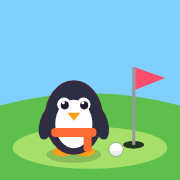
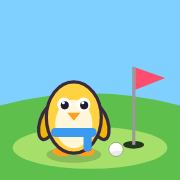
Putt Pals: yellow Ziggy, golf-ball belt for golfers
Claude-Session: https://claude.ai/code/session_01WiqYiDXAydwKSnPXCfe7MG

Changed region(s): [[0.1944, 0.4444, 0.6389, 0.8611]]

diff --git a/putt-pals/index.html b/putt-pals/index.html
@@ -434,6 +434,9 @@ function drawGolfer(c,x,y,s,look,pose,t,face){
  c.save(); c.translate(cx2,cy2); c.rotate(Math.atan2(cy2-hy,cx2-hx)); c.fillStyle='#c7ccd9'; c.strokeStyle=INK; c.lineWidth=1.6; rr(c,-3,-2,11,7,3); c.fill(); c.stroke(); c.restore();
  c.fillStyle=L.shirt; c.strokeStyle=INK; c.lineWidth=2; rr(c,-15,-53,30,30,11); c.fill(); c.stroke();
  c.fillStyle='#fff'; c.beginPath(); c.moveTo(-7,-53); c.lineTo(0,-46); c.lineTo(7,-53); c.closePath(); c.fill();
+ c.fillStyle='#6b4423'; c.strokeStyle=INK; c.lineWidth=1.6; rr(c,-15.5,-28,31,6,2.5); c.fill(); c.stroke();
+ for(const bx of [-11,-5.5,0,5.5,11]){ c.fillStyle='#fff'; c.strokeStyle='#8a8fa3'; c.lineWidth=1; circ(c,bx,-25,2.9); c.fill(); c.stroke();
+  c.fillStyle='#c7ccd9'; circ(c,bx-0.9,-25.6,0.55); c.fill(); circ(c,bx+0.9,-24.4,0.55); c.fill(); circ(c,bx+0.8,-25.9,0.5); c.fill(); }
  c.lineCap='round'; c.strokeStyle=L.skin; c.lineWidth=7;
  c.beginPath(); c.moveTo(11,-47); c.lineTo(hx,hy); c.stroke(); c.beginPath(); c.moveTo(-11,-47); c.lineTo(arm2x,arm2y); c.lineTo(pose==='cheer'?arm2x:hx-2,pose==='cheer'?arm2y:hy+1); c.stroke();
  c.fillStyle=L.skin; circ(c,hx,hy,4.5); c.fill(); if(pose==='cheer'){circ(c,arm2x,arm2y,4.5); c.fill();}
@@ -459,10 +462,10 @@ function drawPal(c,id,x,y,s,t,mood){
  const hp=mood==='cheer'; c.strokeStyle=INK; c.lineWidth=2; c.lineJoin='round'; c.lineCap='round';
  if(id===0){ // Pip penguin with orange scarf
   c.fillStyle='#ff9f1c'; ell(c,-7,-2,6,3); c.fill(); ell(c,7,-2,6,3); c.fill();
-  c.fillStyle='#2b2f45'; ell(c,-16,-20,5,11,0.3); c.fill(); ell(c,16,-20,5,11,-0.3); c.fill();
-  ell(c,0,-23,17,22); c.fill(); c.stroke(); c.fillStyle='#fff'; ell(c,0,-19,11.5,15); c.fill();
+  c.fillStyle='#f2b705'; ell(c,-16,-20,5,11,0.3); c.fill(); c.stroke(); ell(c,16,-20,5,11,-0.3); c.fill(); c.stroke();
+  c.fillStyle='#ffd23f'; ell(c,0,-23,17,22); c.fill(); c.stroke(); c.fillStyle='#fff7d9'; ell(c,0,-19,11.5,15); c.fill();
   eyes(c,-6,6,-31,4.3,hp,0.4); c.fillStyle='#ff9f1c'; c.beginPath(); c.moveTo(-4,-26); c.lineTo(4,-26); c.lineTo(0,-21); c.closePath(); c.fill();
-  c.fillStyle='#ff6b35'; rr(c,-14,-16.5,28,5.5,2.5); c.fill(); rr(c,6,-14,5,12,2); c.fill();
+  c.fillStyle='#3a9bf0'; rr(c,-14,-16.5,28,5.5,2.5); c.fill(); rr(c,6,-14,5,12,2); c.fill();
  } else if(id===1){ // Mo sheep
   c.fillStyle='#4a4455'; rr(c,-9,-9,5,9,2); c.fill(); rr(c,4,-9,5,9,2); c.fill();
   c.fillStyle='#fdfdfd'; c.strokeStyle='#cfc8d8'; for(let i=0;i<9;i++){const a=i/9*TAU; circ(c,Math.cos(a)*13,-24+Math.sin(a)*12,8.5); c.fill(); c.stroke();} circ(c,0,-24,13); c.fill();

diff --git a/putt-pals/sw.js b/putt-pals/sw.js
@@ -1,4 +1,4 @@
-const VERSION = '1';
+const VERSION = '2';
 const CACHE = 'pp-' + VERSION;
 const FILES = ['./', './index.html', './manifest.webmanifest', './icon-180.png', './icon-192.png', './icon-512.png'];
 self.addEventListener('install', e => {
